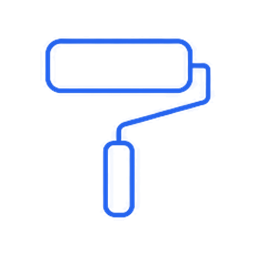
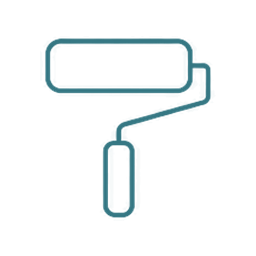
feat(client-site): apply final Wele A identity

Changed region(s): [[0.1562, 0.125, 0.8438, 0.875]]

diff --git a/src/HomeService.Client/wwwroot/app.css b/src/HomeService.Client/wwwroot/app.css
@@ -95,7 +95,7 @@ img {
 
 .client-brand img,
 .client-footer-brand img {
-    width: 88px;
+    width: 112px;
     height: auto;
 }
 
@@ -800,7 +800,7 @@ img {
     position: relative;
     place-items: center;
     overflow: hidden;
-    background: linear-gradient(140deg, #EAF7F1, #d5e4ff);
+    background: linear-gradient(140deg, #FFFFFF, #EAF7F1);
 }
 
 .client-service-placeholder::before,
@@ -918,7 +918,7 @@ img {
 
 .client-service-directory a:hover {
     color: var(--wele-blue);
-    border-color: #afc8f8;
+    border-color: #9EDFBF;
 }
 
 .client-steps-section {
@@ -930,7 +930,7 @@ img {
 }
 
 .client-steps-section .client-section-heading > span {
-    color: #81adff;
+    color: #9EDFBF;
 }
 
 .client-steps-grid {
@@ -1085,7 +1085,7 @@ img {
     object-position: center 32%;
     border: 3px solid #fff;
     border-radius: 50%;
-    box-shadow: 0 0 0 1px #d9e5fb, 0 10px 22px rgba(16, 24, 40, .16);
+    box-shadow: 0 0 0 1px #D6EAE1, 0 10px 22px rgba(12, 90, 102, .14);
 }
 
 .client-repeat-card div {
@@ -1122,7 +1122,7 @@ img {
     place-items: end center;
     overflow: hidden;
     border-radius: 34px;
-    background: radial-gradient(circle at 50% 20%, #fff 0 12%, transparent 36%), linear-gradient(150deg, #e7f0ff, #c8dcff);
+    background: radial-gradient(circle at 50% 20%, #fff 0 12%, transparent 36%), linear-gradient(150deg, #FFFFFF, #F3F5F7 58%, #EAF7F1);
 }
 
 .client-phone-shell {
@@ -1261,7 +1261,7 @@ img {
     aspect-ratio: 1;
     place-items: center;
     overflow: hidden;
-    border: 1px solid #d9e5fb;
+    border: 1px solid #D6EAE1;
     border-radius: 13px;
     background: #fff;
     color: var(--wele-blue);
@@ -1308,7 +1308,7 @@ img {
     align-items: center;
     gap: 9px;
     padding: 10px;
-    border: 1px solid #dbe6f8;
+    border: 1px solid #D9E8E2;
     border-radius: 14px;
     background: #fff;
     box-shadow: 0 6px 16px rgba(16, 24, 40, .055);
@@ -1764,7 +1764,7 @@ img {
     }
 
     .client-brand img {
-        width: 80px;
+        width: 104px;
     }
 
     .client-menu-button {
@@ -2305,12 +2305,12 @@ img {
 
 .wele-consent__accept {
     color: #fff;
-    background: #1a73e8;
-    border: 1px solid #1a73e8;
+    background: #0C5A66;
+    border: 1px solid #0C5A66;
 }
 
 .wele-consent__actions button:focus-visible {
-    outline: 3px solid rgba(26, 115, 232, .28);
+    outline: 3px solid rgba(12, 90, 102, .28);
     outline-offset: 2px;
 }
 

diff --git a/src/HomeService.Client/Components/Pages/Service.razor.css b/src/HomeService.Client/Components/Pages/Service.razor.css
@@ -31,7 +31,7 @@
 
 .seo-brand img,
 .seo-footer-brand img {
-    width: 88px;
+    width: 112px;
     height: auto;
 }
 
@@ -606,8 +606,8 @@
 
 .seo-service-links a:hover {
     transform: translateY(-2px);
-    border-color: #afc8f8;
-    box-shadow: 0 14px 32px rgb(32 107 255 / 10%);
+    border-color: #9EDFBF;
+    box-shadow: 0 14px 32px rgb(12 90 102 / 12%);
 }
 
 .seo-service-link-visual {
@@ -841,7 +841,7 @@
     }
 
     .seo-brand img {
-        width: 82px;
+        width: 104px;
     }
 
     .seo-breadcrumb {

diff --git a/src/HomeService.Api/DatabaseInitializer.cs b/src/HomeService.Api/DatabaseInitializer.cs
@@ -1522,7 +1522,7 @@ public static class DatabaseInitializer
                     AddCmsText(db, section, "primaryCta.url", CmsContentValueType.InternalLink, "#commander", french.Id);
                     AddCmsText(db, section, "secondaryCta.label", CmsContentValueType.ShortText, "Découvrir Wélé", french.Id);
                     AddCmsText(db, section, "secondaryCta.url", CmsContentValueType.InternalLink, "#services", french.Id);
-                    AddCmsText(db, section, "image.url", CmsContentValueType.Media, "website/client/wele-client-hero.png", french.Id);
+                    AddCmsText(db, section, "image.url", CmsContentValueType.Media, "website/client/wele-client-hero-v2.webp", french.Id);
                     AddCmsText(db, section, "image.alt", CmsContentValueType.ShortText, "Une cliente accueille une professionnelle Wélé à Abidjan", french.Id);
                     AddCmsJson(db, section, "proofItems", "[\"Professionnels vérifiés et notés\",\"Paiement sécurisé\",\"Service suivi en direct\",\"Assistance réactive\"]", french.Id);
                     break;
@@ -1552,7 +1552,7 @@ public static class DatabaseInitializer
                     AddCmsText(db, section, "subtitle", CmsContentValueType.LongText, "Chaque mission est encadrée : identité et compétences vérifiées, paiement au bon moment, suivi des étapes et avis après intervention.", french.Id);
                     AddCmsText(db, section, "primaryCta.label", CmsContentValueType.ShortText, "Découvrir l’application", french.Id);
                     AddCmsText(db, section, "primaryCta.url", CmsContentValueType.InternalLink, "#telecharger", french.Id);
-                    AddCmsText(db, section, "image.url", CmsContentValueType.Media, "website/client/wele-trust-team.png", french.Id);
+                    AddCmsText(db, section, "image.url", CmsContentValueType.Media, "website/client/wele-trust-team-v2.webp", french.Id);
                     AddCmsText(db, section, "image.alt", CmsContentValueType.ShortText, "Équipe de professionnels Wélé", french.Id);
                     AddCmsJson(db, section, "items", "[\"Identité contrôlée\",\"Compétences validées\",\"Avis authentiques\"]", french.Id);
                     break;

diff --git a/src/HomeService.Api/PublicMediaResponseMapper.cs b/src/HomeService.Api/PublicMediaResponseMapper.cs
@@ -5,6 +5,8 @@ namespace HomeService.Api;
 
 public static class PublicMediaResponseMapper
 {
+    private const string BrandAssetVersion = "20260814";
+
     public static string? Resolve(IApiObjectStorage storage, string? value)
     {
         if (string.IsNullOrWhiteSpace(value))
@@ -19,13 +21,30 @@ public static class PublicMediaResponseMapper
         {
             if (string.Equals(absoluteUri.Host, "media.wele.africa", StringComparison.OrdinalIgnoreCase))
             {
-                return storage.GetPublicUrl(absoluteUri.AbsolutePath.TrimStart('/')) ?? value;
+                return AppendBrandVersion(
+                    storage.GetPublicUrl(absoluteUri.AbsolutePath.TrimStart('/')) ?? value,
+                    absoluteUri.AbsolutePath.TrimStart('/'));
             }
 
             return value;
         }
 
-        return storage.GetPublicUrl(objectKey.TrimStart('/')) ?? value;
+        var normalizedKey = objectKey.TrimStart('/');
+        return AppendBrandVersion(storage.GetPublicUrl(normalizedKey) ?? value, normalizedKey);
+    }
+
+    private static string AppendBrandVersion(string url, string objectKey)
+    {
+        var isBrandAsset = objectKey.StartsWith("assets/services/", StringComparison.OrdinalIgnoreCase)
+            || objectKey.StartsWith("catalog/prestations/", StringComparison.OrdinalIgnoreCase)
+            || objectKey.StartsWith("website/client/", StringComparison.OrdinalIgnoreCase);
+
+        if (!isBrandAsset || url.Contains("brand=", StringComparison.OrdinalIgnoreCase))
+        {
+            return url;
+        }
+
+        return $"{url}{(url.Contains('?') ? '&' : '?')}brand={BrandAssetVersion}";
     }
 
     public static ServiceSummaryResponse Map(IApiObjectStorage storage, ServiceSummaryResponse service)

diff --git a/src/HomeService.Contracts/Cms/ClientHomeCmsResponse.cs b/src/HomeService.Contracts/Cms/ClientHomeCmsResponse.cs
@@ -59,7 +59,7 @@ public static class ClientHomeCmsDefaults
             "Des professionnels vérifiés pour votre maison, votre bien-être et votre quotidien.",
             new CmsLinkResponse("Commander un service", "#commander"),
             new CmsLinkResponse("Découvrir Wélé", "#services"),
-            "website/client/wele-client-hero.png",
+            "website/client/wele-client-hero-v2.webp",
             "Une cliente accueille une professionnelle Wélé à Abidjan",
             ["Professionnels vérifiés et notés", "Paiement sécurisé", "Service suivi en direct", "Assistance réactive"]),
         new ClientHomeServicesCmsResponse(
@@ -80,7 +80,7 @@ public static class ClientHomeCmsDefaults
             "Votre quotidien mérite des professionnels fiables.",
             "Chaque mission est encadrée : identité et compétences vérifiées, paiement au bon moment, suivi des étapes et avis après intervention.",
             new CmsLinkResponse("Découvrir l’application", "#telecharger"),
-            "website/client/wele-trust-team.png",
+            "website/client/wele-trust-team-v2.webp",
             "Équipe de professionnels Wélé",
             ["Identité contrôlée", "Compétences validées", "Avis authentiques"]),
         new ClientHomeRepeatCmsResponse(

diff --git a/src/HomeService.Client/PublicSeoEndpoints.cs b/src/HomeService.Client/PublicSeoEndpoints.cs
@@ -38,7 +38,7 @@ public static class PublicSeoEndpoints
             xml.AppendLine("""<?xml version="1.0" encoding="UTF-8"?>""");
             xml.AppendLine("""<urlset xmlns="http://www.sitemaps.org/schemas/sitemap/0.9" xmlns:image="http://www.google.com/schemas/sitemap-image/1.1">""");
             AppendUrl(xml, $"{siteBaseUrl}/", "1.0", "daily",
-                [new SeoImage($"{GetPublicMediaBaseUrl(configuration)}/website/client/wele-client-hero.png", "Wélé — services à domicile à Abidjan")]);
+                [new SeoImage($"{GetPublicMediaBaseUrl(configuration)}/website/client/wele-client-hero-v2.webp", "Wélé — services à domicile à Abidjan")]);
             AppendUrl(xml, $"{siteBaseUrl}/services", "0.9", "daily", []);
 
             foreach (var service in services)
